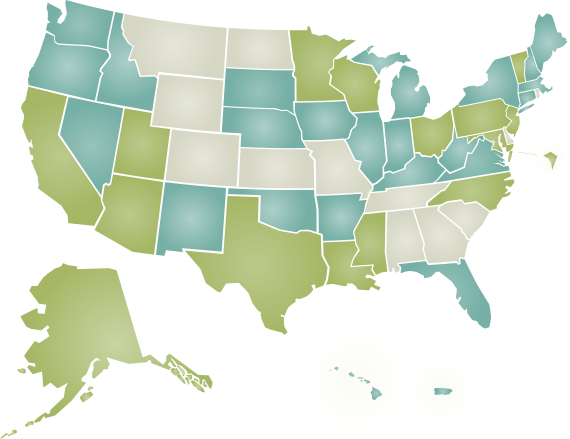
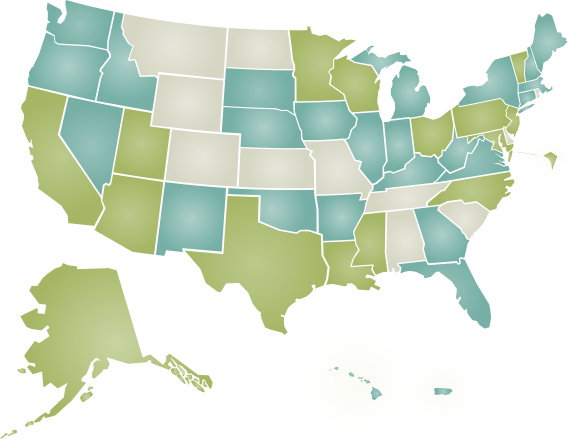
GA!

Changed region(s): [[0.7158, 0.4738, 0.8351, 0.6219]]

diff --git a/site/templates/status.html b/site/templates/status.html
@@ -5,7 +5,7 @@
 {% block content %}
 <h2>Project Status</h2>
 
-<p> As of September 23rd, 2011 we have data for 38 states, the District of Columbia, and Puerto Rico.  </p> 
+<p> As of October 19th, 2011 we have data for 39 states, the District of Columbia, and Puerto Rico.  </p> 
 
 <p> States are denoted as either "ready" or "experimental" depending on how
 reliable the source data is and how thoroughly we've vetted and cleaned up the
@@ -37,7 +37,7 @@ New Jersey, North Carolina, Ohio, Pennsylvania, Texas, Utah, Vermont, Washington
 
 <h4> Experimental States </h4>
 <p> Experimental states (in blue) are those that we support but have not yet promoted to ready
-status.  Arkansas, Connecticut, Florida, Hawaii, Idaho, Illinois, Indiana, Iowa, Kentucky, Maine,
+status.  Arkansas, Connecticut, Florida, Georgia, Hawaii, Idaho, Illinois, Indiana, Iowa, Kentucky, Maine,
 Massachusetts, Michigan, Nevada, New Hampshire, New Mexico, New York, Oklahoma, Oregon, Puerto Rico,
 South Dakota, Virginia, Washington, and West Virginia fall in this category.
 </p>

diff --git a/site/templates/index.html b/site/templates/index.html
@@ -37,7 +37,7 @@
                         Open States Project Status
                     </h3>
                     <p>
-                        We currently have data available for 38 states, Washington DC, and Puerto Rico.  If your state isn't available yet learn how to <a href="/contributing/">contribute.</a>
+                        We currently have data available for 39 states, Washington DC, and Puerto Rico.  If your state isn't available yet learn how to <a href="/contributing/">contribute.</a>
                     </p>
                 </div>
                 <div class="map-key">
